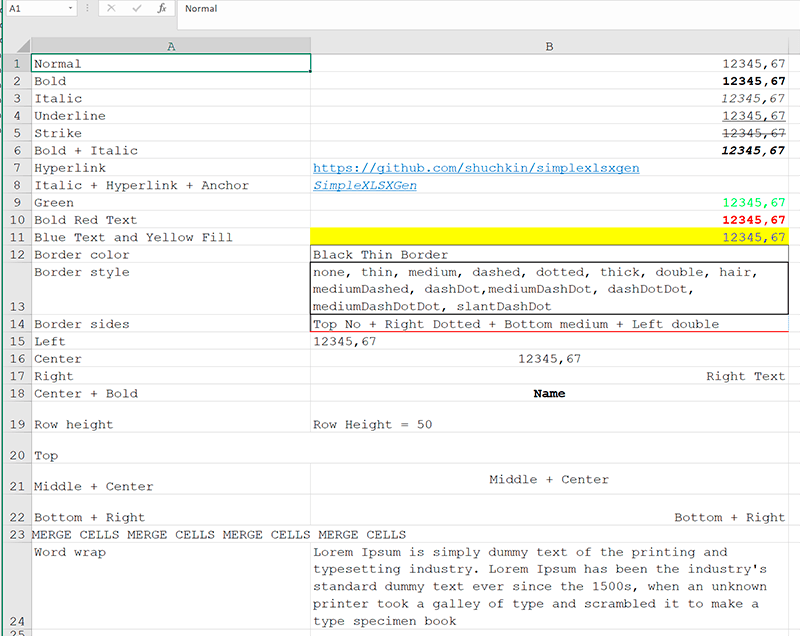
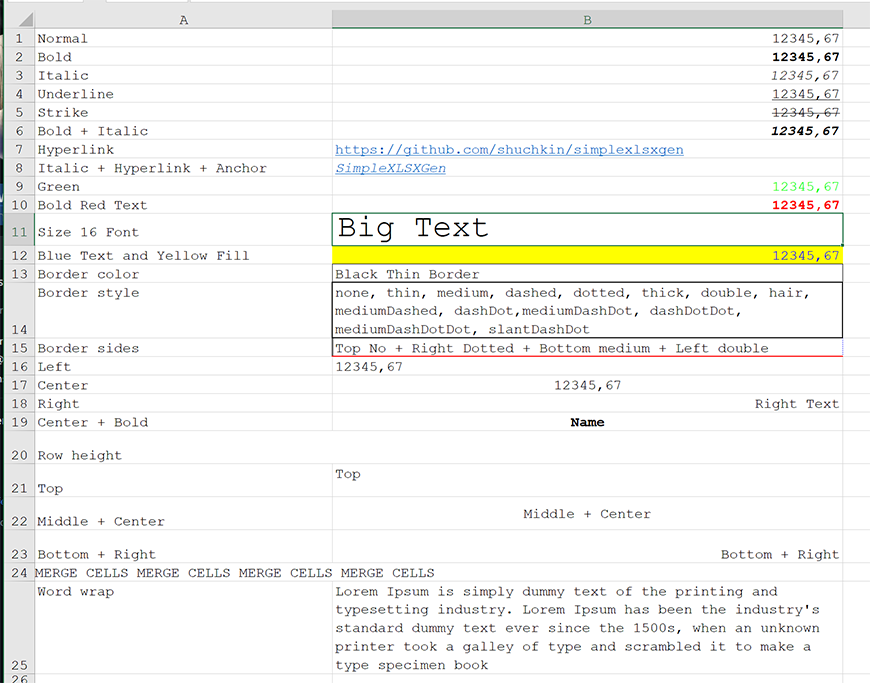
1.3.12 font size

diff --git a/src/SimpleXLSXGen.php b/src/SimpleXLSXGen.php
@@ -112,9 +112,9 @@ class SimpleXLSXGen
         ];
 
 
-        $this->XF = [  // styles 0 - num fmt, 1 - align, 2 - font, 3 - fill, 4 - font color, 5 - bgcolor, 6 - border
-            [self::N_NORMAL, self::A_DEFAULT, self::F_NORMAL, self::FL_NONE, 0, 0, ''],
-            [self::N_NORMAL, self::A_DEFAULT, self::F_NORMAL, self::FL_GRAY_125, 0, 0, ''], // hack
+        $this->XF = [  // styles 0 - num fmt, 1 - align, 2 - font, 3 - fill, 4 - font color, 5 - bgcolor, 6 - border, 7 - font size
+            [self::N_NORMAL, self::A_DEFAULT, self::F_NORMAL, self::FL_NONE, 0, 0, '', 0],
+            [self::N_NORMAL, self::A_DEFAULT, self::F_NORMAL, self::FL_GRAY_125, 0, 0, '', 0], // hack
         ];
         $this->XF_KEYS[implode('-', $this->XF[0])] = 0; // & keys
         $this->XF_KEYS[implode('-', $this->XF[1])] = 1;
@@ -388,7 +388,7 @@ class SimpleXLSXGen
                 foreach ($this->XF as $xf) {
                     // 0 - num fmt, 1 - align, 2 - font, 3 - fill, 4 - font color, 5 - bgcolor, 6 - border, 7 - font size
                     // fonts
-                    $F_KEY = $xf[2] . '-' . $xf[4];
+                    $F_KEY = $xf[2] . '-' . $xf[4].'-'.$xf[7];
                     if (isset($F_KEYS[$F_KEY])) {
                         $F_ID = $F_KEYS[$F_KEY];
                     } else {
@@ -626,18 +626,30 @@ class SimpleXLSXGen
                     $cell = $this->sheets[$idx]['frozen'];
                     self::cell2coord($cell, $x, $y);
                 } else {
-                    if (isset($this->sheets[$idx]['frozen'][0])) $x = $this->sheets[$idx]['frozen'][0];
-                    if (isset($this->sheets[$idx]['frozen'][1])) $y = $this->sheets[$idx]['frozen'][1];
+                    if (isset($this->sheets[$idx]['frozen'][0])) {
+                        $x = $this->sheets[$idx]['frozen'][0];
+                    }
+                    if (isset($this->sheets[$idx]['frozen'][1])) {
+                        $y = $this->sheets[$idx]['frozen'][1];
+                    }
                     $cell = self::coord2cell($x, $y);
                 }
                 if ($x > 0 || $y > 0) {
                     $split = '';
-                    if ($x > 0) $split .= " xSplit=\"{$x}\"";
-                    if ($y > 0) $split .= " ySplit=\"{$y}\"";
+                    if ($x > 0) {
+                        $split .= ' xSplit="'.$x.'"';
+                    }
+                    if ($y > 0) {
+                        $split .= ' ySplit="'.$y.'"';
+                    }
                     $activepane = 'bottomRight';
-                    if ($x >  0 && $y == 0) $activepane = 'topRight';
-                    if ($x == 0 && $y >  0) $activepane = 'bottomLeft';
-                    $SHEETVIEWS = "<sheetViews><sheetView tabSelected=\"1\" workbookViewId=\"0\"><pane{$split} topLeftCell=\"{$cell}\" activePane=\"{$activepane}\" state=\"frozen\"/></sheetView></sheetViews>";
+                    if ($x >  0 && $y === 0) {
+                        $activepane = 'topRight';
+                    }
+                    if ($x === 0 && $y >  0) {
+                        $activepane = 'bottomLeft';
+                    }
+                    $SHEETVIEWS = '<sheetViews><sheetView tabSelected="1" workbookViewId="0"><pane'.$split.' topLeftCell="'.$cell.'" activePane="'.$activepane.'" state="frozen"/></sheetView></sheetViews>';
                 }
             }
             $COLS[] = '<cols>';
@@ -711,9 +723,9 @@ class SimpleXLSXGen
                                     }
                                     if (preg_match('/ font-size="([^"]+)"/', $m[1], $m2)) {
                                         $FS = (int)$m2[1];
-                                        if($RH == 0){
-                                          $RH = (int)($FS * 1.25);
-					}
+                                        if ($RH === 0) { // fix row height
+                                           $RH = ($FS > $this->defaultFontSize) ? round($FS * 1.50,1) : 0;
+					                    }
                                     }
                                 }
                                 if (strpos($v, '<left>') !== false) {
@@ -1039,7 +1051,7 @@ class SimpleXLSXGen
 
     public static function raw($value)
     {
-        return "\0" . (string)$value;
+        return "\0" . $value;
     }
 
     public static function cell2coord($cell, &$x, &$y)
@@ -1047,9 +1059,15 @@ class SimpleXLSXGen
         $x = $y = 0;
         $lettercount = 0;
         $cell = str_replace([' ', '\t', '\r', '\n', '\v', '\0'], '', $cell);
-        if (empty($cell)) return;
+        if (empty($cell)) {
+            return;
+        }
         $cell = strtoupper($cell);
-        for ($i = 0; $i < strlen($cell); $i++) if ($cell[$i] >= 'A' && $cell[$i] <= 'Z') $lettercount++;
+        for ($i = 0, $len = strlen($cell); $i < $len; $i++) {
+            if ($cell[$i] >= 'A' && $cell[$i] <= 'Z') {
+                $lettercount++;
+            }
+        }
         if ($lettercount > 0) {
             $x = ord($cell[$lettercount - 1]) - ord('A');
             $e = 1;
@@ -1058,15 +1076,18 @@ class SimpleXLSXGen
                 $e++;
             }
         }
-        if ($lettercount < strlen($cell)) $y = ((int)substr($cell, $lettercount)) - 1;
+        if ($lettercount < strlen($cell)) {
+            $y = ((int)substr($cell, $lettercount)) - 1;
+        }
     }
 
     public static function coord2cell($x, $y, $absolute = false)
     {
         $c = '';
-        for ($i = $x; $i >= 0; $i = ((int)($i / 26)) - 1) $c = chr(ord('A') + $i % 26) . $c;
-        if ($absolute) $absolute = '$'; else $absolute = '';
-        return $absolute . $c . $absolute . ($y+1);
+        for ($i = $x; $i >= 0; $i = ((int)($i / 26)) - 1) {
+            $c = chr(ord('A') + $i % 26) . $c;
+        }
+        return ($absolute ? '$' : '') . $c . $absolute . ($y+1);
     }
 
     public function freezePanes($cell)

diff --git a/README.md b/README.md
@@ -72,6 +72,7 @@ $data = [
     ['Italic + Hyperlink + Anchor', '<i><a href="https://github.com/shuchkin/simplexlsxgen">SimpleXLSXGen</a></i>'],
     ['Green', '<style color="#00FF00">12345.67</style>'],
     ['Bold Red Text', '<b><style color="#FF0000">12345.67</style></b>'],
+    ['Size 32 Font', '<style font-size="32">Big Text</style>'],
     ['Blue Text and Yellow Fill', '<style bgcolor="#FFFF00" color="#0000FF">12345.67</style>'],
     ['Border color', '<style border="#000000">Black Thin Border</style>'],
     ['<top>Border style</top>','<style border="medium"><wraptext>none, thin, medium, dashed, dotted, thick, double, hair, mediumDashed, dashDot,mediumDashDot, dashDotDot, mediumDashDotDot, slantDashDot</wraptext></style>'],
@@ -85,8 +86,7 @@ $data = [
     ['Middle + Center', '<style height="50"><middle><center>Middle + Center</center></middle></style>'],
     ['Bottom + Right', '<style height="50"><bottom><right>Bottom + Right</right></bottom></style>'],
     ['<center>MERGE CELLS MERGE CELLS MERGE CELLS MERGE CELLS MERGE CELLS</center>', null],
-    ['<top>Word wrap</top>', "<wraptext>Lorem Ipsum is simply dummy text of the printing and typesetting industry. Lorem Ipsum has been the industry's standard dummy text ever since the 1500s, when an unknown printer took a galley of type and scrambled it to make a type specimen book</wraptext>"]
-    ['Size 16 Font', '<style font-size="16">Big Text</style>'],
+    ['<top>Word wrap</top>', "<wraptext>Lorem Ipsum is simply dummy text of the printing and typesetting industry. Lorem Ipsum has been the industry's standard dummy text ever since the 1500s, when an unknown printer took a galley of type and scrambled it to make a type specimen book</wraptext>"],
 ];
 SimpleXLSXGen::fromArray($data)
     ->setDefaultFont('Courier New')

diff --git a/CHANGELOG.md b/CHANGELOG.md
@@ -1,5 +1,9 @@
 # Changelog
 
+## 1.3.12 (2023-03-31)
+* ```<style font-size="32">Big Text</style>``` - font size in cells, thx [Andrew Robinson](https://github.com/mrjemson) 
+
+
 ## 1.3.11 (2023-03-28)
 * freezePanes( corner_cell ) - freezePanes to keep an area of a worksheet visible while you scroll, corner_cell is not included, thx [Javier](https://github.com/xaviermdq)
 
